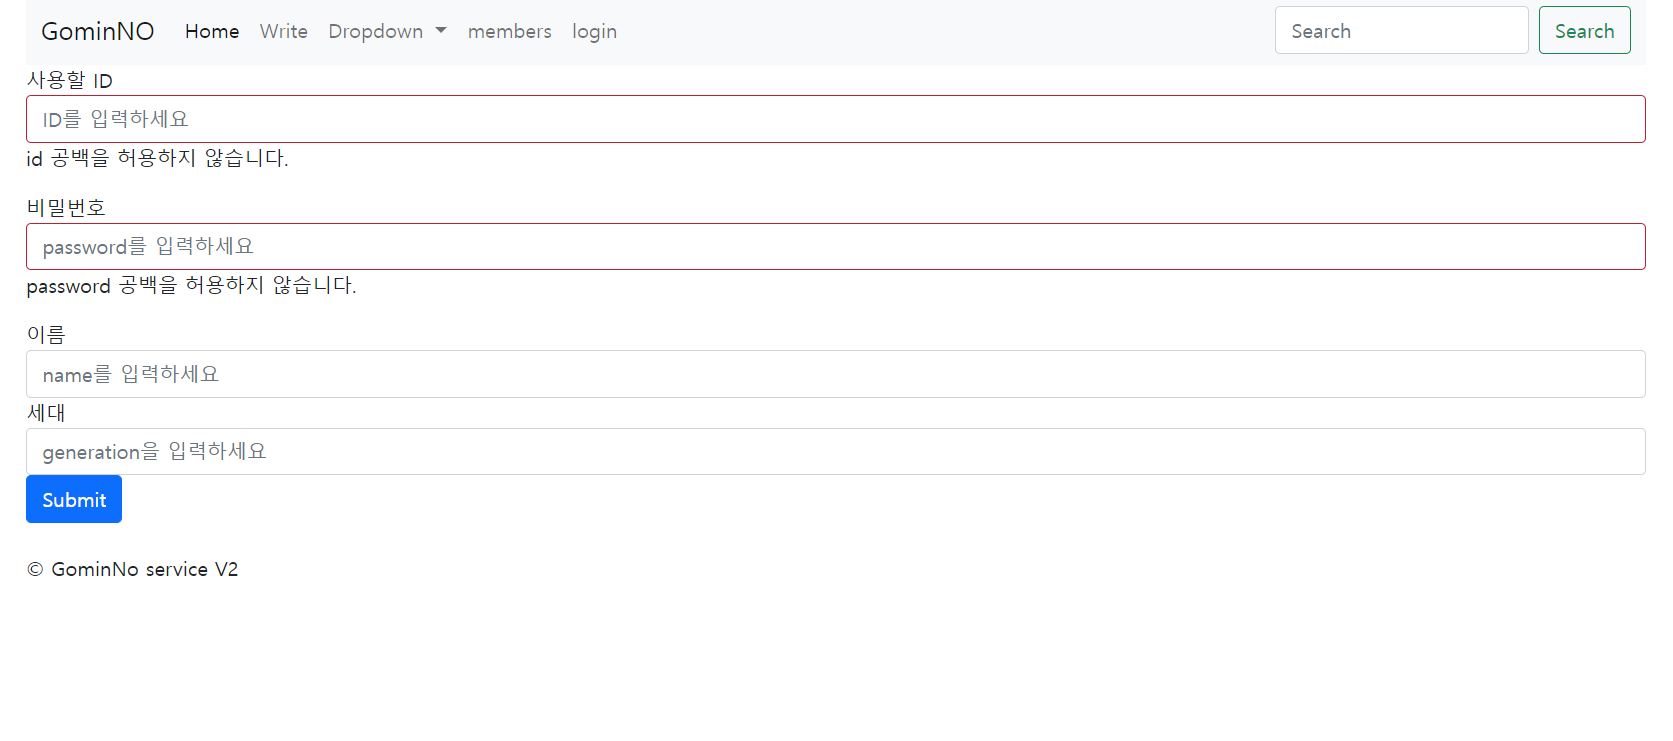
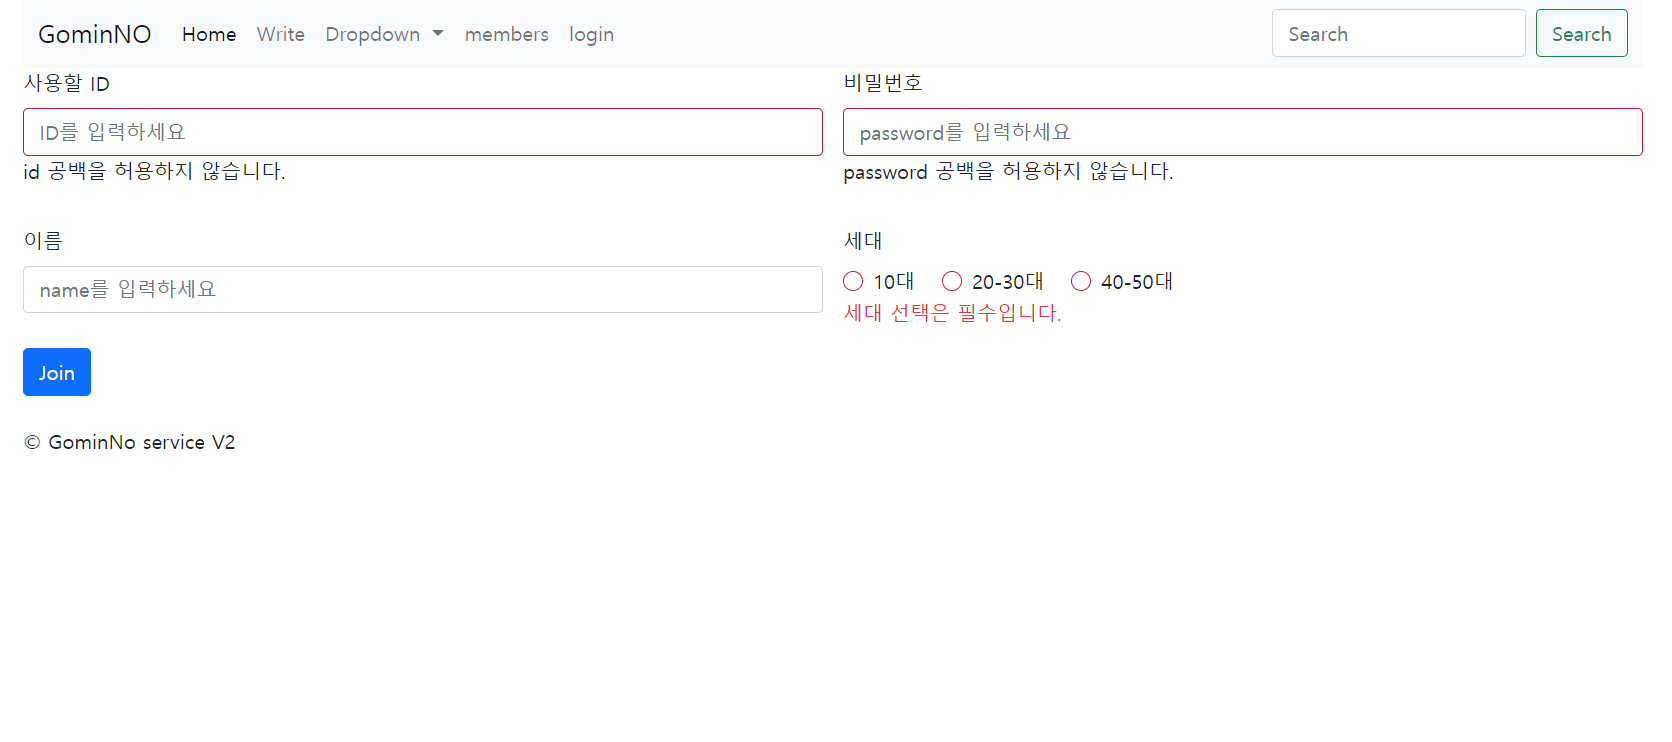
For signUp

diff --git a/src/main/resources/templates/members/createMemberForm.html b/src/main/resources/templates/members/createMemberForm.html
@@ -9,94 +9,41 @@
 <body>
 <div class="container">
     <div th:replace="fragments/bodyHeader :: bodyHeader"/>
-  <!--  <form class="row g-3 needs-validation" novalidate>
-        <div class="col-md-4">
-            <label for="validationCustom01" class="form-label">First name</label>
-            <input type="text" class="form-control" id="validationCustom01" value="Mark" required>
-            <div class="valid-feedback">
-                Looks good!
-            </div>
-        </div>
-        <div class="col-md-4">
-            <label for="validationCustom02" class="form-label">Last name</label>
-            <input type="text" class="form-control" id="validationCustom02" value="Otto" required>
-            <div class="valid-feedback">
-                Looks good!
-            </div>
-        </div>
-        <div class="col-md-4">
-            <label for="validationCustomUsername" class="form-label">Username</label>
-            <div class="input-group has-validation">
-                <span class="input-group-text" id="inputGroupPrepend">@</span>
-                <input type="text" class="form-control" id="validationCustomUsername" aria-describedby="inputGroupPrepend" required>
-                <div class="invalid-feedback">
-                    Please choose a username.
-                </div>
-            </div>
-        </div>
-        <div class="col-md-6">
-            <label for="validationCustom03" class="form-label">City</label>
-            <input type="text" class="form-control" id="validationCustom03" required>
-            <div class="invalid-feedback">
-                Please provide a valid city.
-            </div>
-        </div>
-        <div class="col-md-3">
-            <label for="validationCustom04" class="form-label">State</label>
-            <select class="form-select" id="validationCustom04" required>
-                <option selected disabled value="">Choose...</option>
-                <option>...</option>
-            </select>
-            <div class="invalid-feedback">
-                Please select a valid state.
-            </div>
-        </div>
-        <div class="col-md-3">
-            <label for="validationCustom05" class="form-label">Zip</label>
-            <input type="text" class="form-control" id="validationCustom05" required>
-            <div class="invalid-feedback">
-                Please provide a valid zip.
-            </div>
-        </div>
-        <div class="col-12">
-            <div class="form-check">
-                <input class="form-check-input" type="checkbox" value="" id="invalidCheck" required>
-                <label class="form-check-label" for="invalidCheck">
-                    Agree to terms and conditions
-                </label>
-                <div class="invalid-feedback">
-                    You must agree before submitting.
-                </div>
-            </div>
-        </div>
-        <div class="col-12">
-            <button class="btn btn-primary" type="submit">Submit form</button>
-        </div>
-    </form>-->
 
-    <form role="form" action="/members/new" th:object="${memberForm}"  method="post">
-        <div class="form-group">
-            <label th:for="id">사용할 ID</label>
+    <form class="row g-3" role="form" action="/members/new" th:object="${memberForm}"  method="post">
+        <div class="col-md-6">
+            <label th:for="id" class="form-label">사용할 ID</label>
             <input type="text" th:field="*{id}" class="form-control" placeholder="ID를 입력하세요"
                    th:class="${#fields.hasErrors('id')}? 'form-control fieldError' : 'form-control'">
             <p th:if="${#fields.hasErrors('id')}" th:errors="*{id}">Incorrect date</p>
         </div>
-        <div class="form-group">
-            <label th:for="password">비밀번호</label>
+        <div class="col-md-6">
+            <label th:for="password" class="form-label">비밀번호</label>
             <input type="text" th:field="*{password}" class="form-control"placeholder="password를 입력하세요"
                     th:class="${#fields.hasErrors('password')?'form-control fieldError': 'form-control'}">
             <p th:if="${#fields.hasErrors('password')}" th:errors="*{password}"> Incorrect Data </p>
         </div>
-        <div class="form-group">
-            <label th:for="name"> 이름 </label>
+        <div class="col-md-6">
+            <label th:for="name" class="form-label"> 이름 </label>
             <input type="text" th:field="*{name}" class="form-control"placeholder="name를 입력하세요">
         </div>
-        <div class="form-group">
-            <label th:for="generation">세대</label> <input type="text" th:field="*{generation}" class="form-control"
-                   placeholder="generation을 입력하세요">
+        <div class="col-md-6">
+            <label th:for="generation" class="form-label">세대</label>
+            <div>
+            <div th:each="generation : ${generations}" class="form-check form-check-inline">
+                <input type="radio" th:field="*{generation}" th:value="${generation.name()}" class="form-check-input"
+                       th:class="${#fields.hasErrors('generation')}? 'form-check-input fieldError' : 'form-check-input'">
+                <label th:for="${#ids.prev('generation')}" th:text="${generation.description}" class="form-check-label">20-30대</label>
+            </div>
+            </div>
+            <div th:if="${#fields.hasErrors('generation')}" th:errors="*{generation}" th:class="field-error"></div>
+
         </div>
-        <button type="submit" class="btn btn-primary">Submit</button>
+        <div class="col-12">
+            <button class="btn btn-primary" type="submit">Join</button>
+        </div>
     </form>
+
     <br/>
     <div th:replace="fragments/footer :: footer" />
 </div> <!-- /container -->

diff --git a/src/main/java/jpaProject/trouble_Solution/controller/AccountController.java b/src/main/java/jpaProject/trouble_Solution/controller/AccountController.java
@@ -1,5 +1,6 @@
 package jpaProject.trouble_Solution.controller;
 
+import jpaProject.trouble_Solution.domain.GenerationStatus;
 import jpaProject.trouble_Solution.domain.Member;
 import jpaProject.trouble_Solution.service.MemberService;
 import lombok.RequiredArgsConstructor;
@@ -7,15 +8,22 @@ import org.springframework.stereotype.Controller;
 import org.springframework.ui.Model;
 import org.springframework.validation.BindingResult;
 import org.springframework.web.bind.annotation.GetMapping;
+import org.springframework.web.bind.annotation.ModelAttribute;
 import org.springframework.web.bind.annotation.PostMapping;
 
 import javax.validation.Valid;
+import java.time.LocalDateTime;
 import java.util.List;
 
 @Controller
 @RequiredArgsConstructor
 public class AccountController {
     private final MemberService memberService;
+
+    @ModelAttribute("generations")
+    public GenerationStatus[] generationStatuses(){
+        return GenerationStatus.values();
+    }
 
     @GetMapping("/members/new")
     public String createForm(Model model) {
@@ -34,6 +42,7 @@ public class AccountController {
         member.setPassword(memberForm.getPassword());
         member.setName(memberForm.getName());
         member.setGeneration(memberForm.getGeneration());
+        member.setCreateDate(LocalDateTime.now());
         memberService.join(member);
         return "redirect:/";
     }

diff --git a/src/main/java/jpaProject/trouble_Solution/controller/MemberForm.java b/src/main/java/jpaProject/trouble_Solution/controller/MemberForm.java
@@ -5,6 +5,7 @@ import lombok.Getter;
 import lombok.Setter;
 
 import javax.validation.constraints.NotEmpty;
+import javax.validation.constraints.NotNull;
 
 @Getter
 @Setter
@@ -17,5 +18,6 @@ public class MemberForm {
 
     private String name;
 
+    @NotNull(message = "세대 선택은 필수입니다.")
     private GenerationStatus generation;
 }
